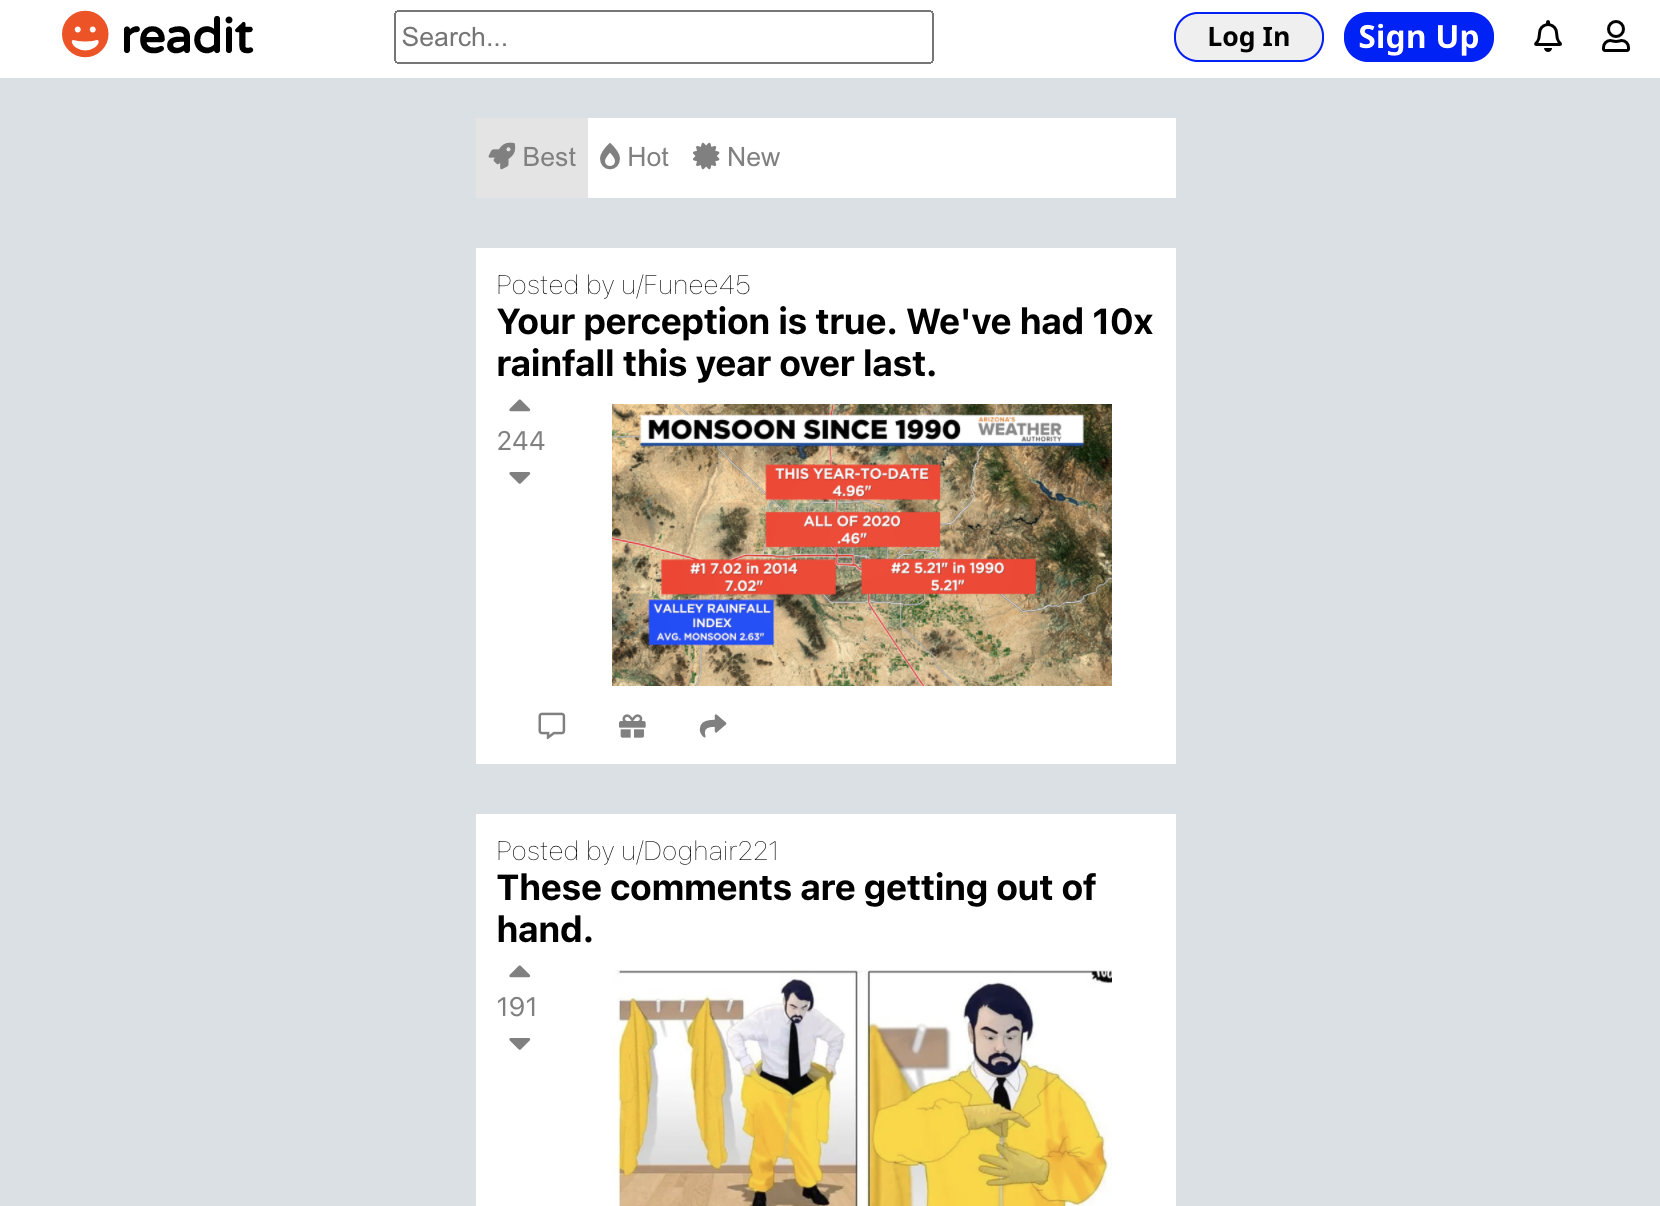
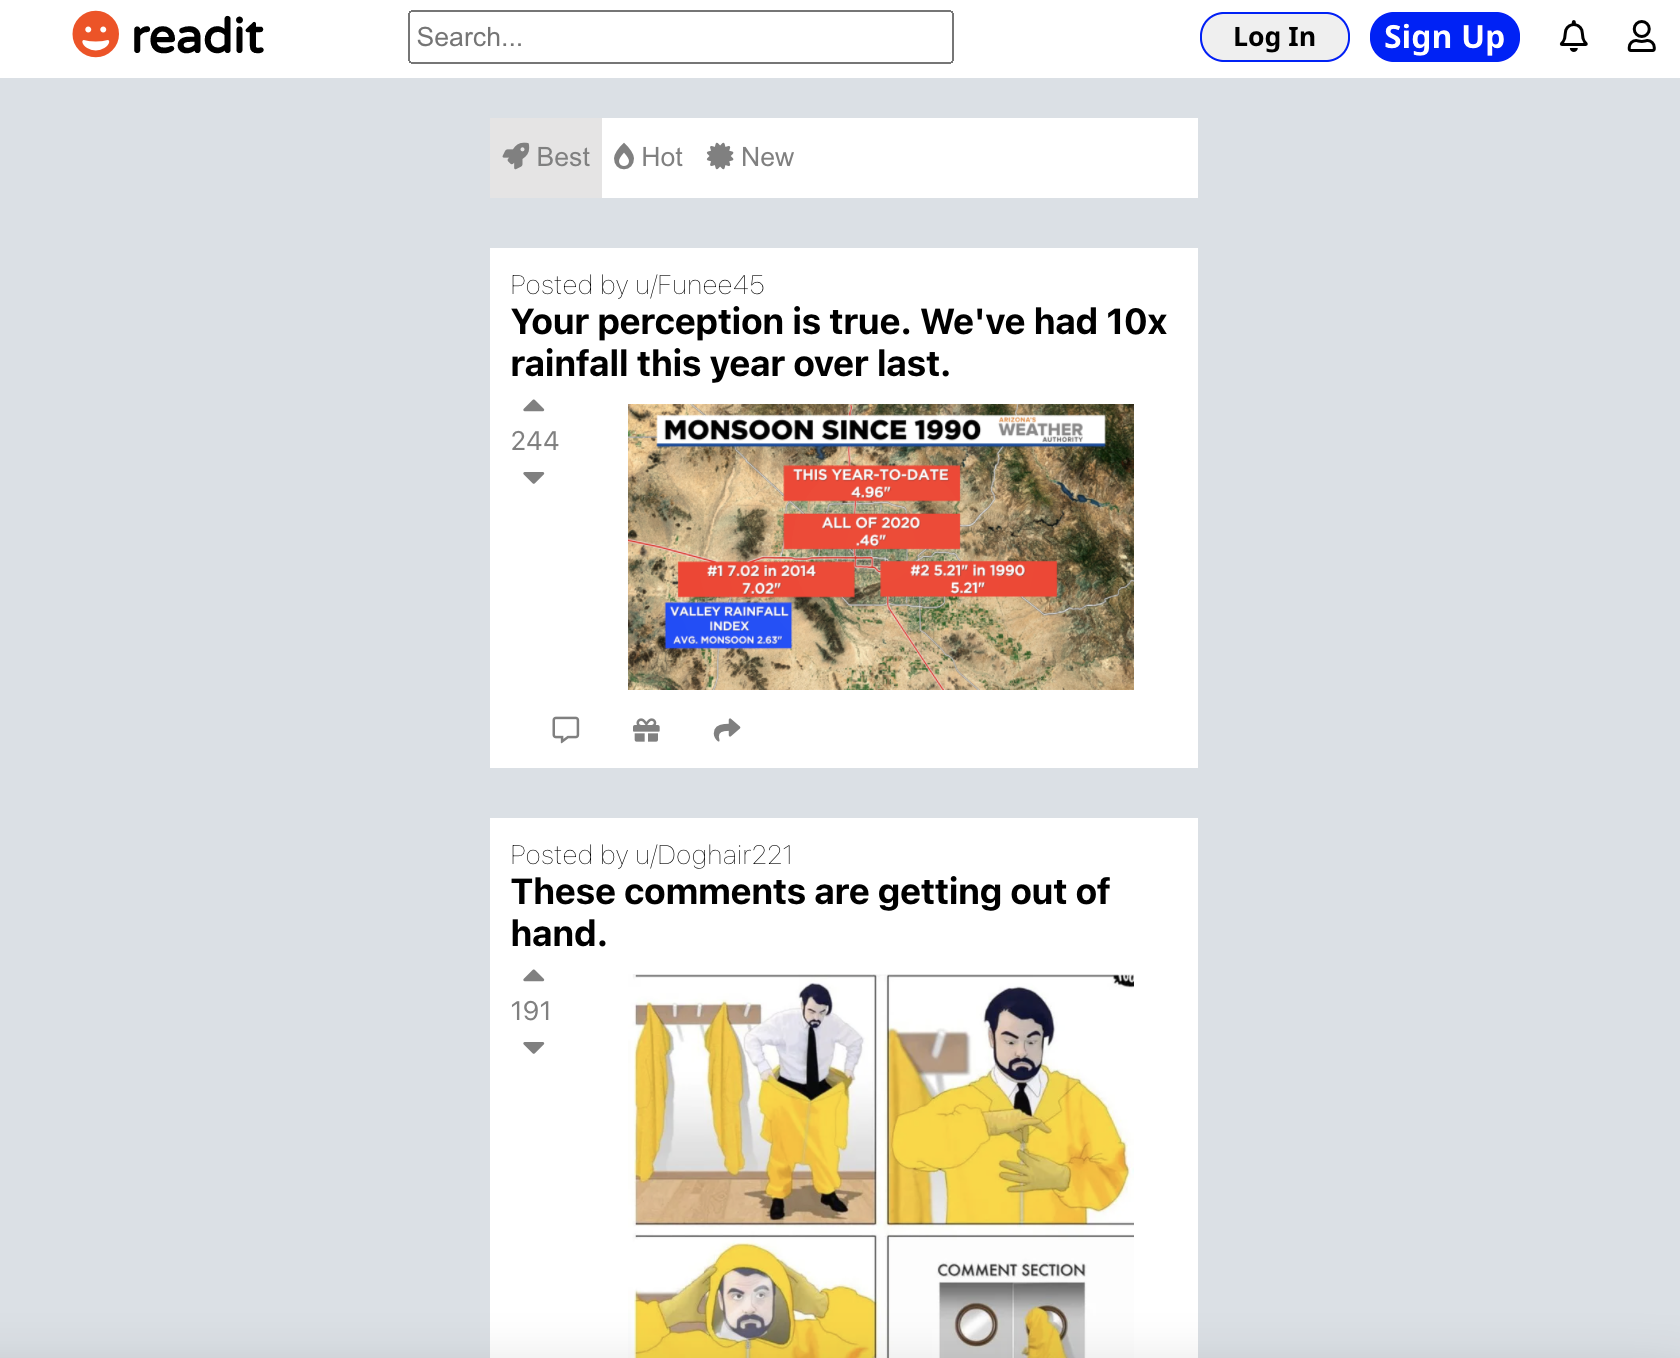
footer

Changed region(s): [[0.0, 0.0, 1.0, 1.0]]

diff --git a/public/index.html b/public/index.html
@@ -1,18 +1,30 @@
-<!doctype html>
+<!DOCTYPE html>
 <html lang="en">
   <head>
     <meta charset="utf-8" />
-    <script src="https://kit.fontawesome.com/96b8020baf.js" crossorigin="anonymous"></script>
-    <meta name="viewport" content="width=device-width, initial-scale=1.0/>
-    <meta name="theme-color" content="#000000" />
+    <script
+      src="https://kit.fontawesome.com/96b8020baf.js"
+      crossorigin="anonymous"
+    ></script>
+    <meta name="viewport" content="width=device-width, initial-scale=1.0"/>
+    <meta name="theme-color" content="#000000"/>
     <meta
       name="description"
       content="Web site created using create-react-app"
     />
-    <link href="https://fonts.googleapis.com/css2?family=Varela+Round&display=swap" rel="stylesheet">
-    <link href="https://fonts.googleapis.com/css2?family=Noto+Sans:wght@700&display=swap" rel="stylesheet">
+    <link
+      href="https://fonts.googleapis.com/css2?family=Varela+Round&display=swap"
+      rel="stylesheet"
+    />
+    <link
+      href="https://fonts.googleapis.com/css2?family=Noto+Sans:wght@700&display=swap"
+      rel="stylesheet"
+    />
     <link rel="apple-touch-icon" href="%PUBLIC_URL%/logo192.png" />
-    <link href="https://fonts.googleapis.com/css2?family=Noto+Sans+JP:wght@500&display=swap" rel="stylesheet">
+    <link
+      href="https://fonts.googleapis.com/css2?family=Noto+Sans+JP:wght@500&display=swap"
+      rel="stylesheet"
+    />
     <!--
       manifest.json provides metadata used when your web app is installed on a
       user's mobile device or desktop. See https://developers.google.com/web/fundamentals/web-app-manifest/
@@ -40,11 +52,9 @@
       To create a production bundle, use `npm run build` or `yarn build`.
     -->
     <!-- The core Firebase JS SDK is always required and must be listed first -->
-<script src="/__/firebase/8.10.0/firebase-app.js"></script>
+    <script src="/__/firebase/8.10.0/firebase-app.js"></script>
 
-
-
-<!-- Initialize Firebase -->
-<script src="/__/firebase/init.js?useEmulator=true"></script>
+    <!-- Initialize Firebase -->
+    <script src="/__/firebase/init.js?useEmulator=true"></script>
   </body>
 </html>

diff --git a/src/Main.js b/src/Main.js
@@ -37,13 +37,19 @@ function Main() {
                 <button className="more-buttons" id="readit-button">Click For More</button>
                 </div>
             </div>
-            <div className="content-class" id="content3">Weather App</div>
+            <div className="content-class" id="content3">
+            <div className="content-holder">
+                <div className="projct-title"></div>
+                <img src="weather-app.png" alt="weather app" className="project-photos" id="weather-img"></img>
+                <button className="more-buttons" id="weather-button">Click For More</button>
+                </div>
+            </div>
             <footer id="footer">
                 <div id="logos">
-                <div id="js-icon"><i class="fab fa-js-square"></i></div>
-                <div id="css-icon"><i class="fab fa-css3-alt"></i></div>
-                <div id="html-icon"><i class="fab fa-html5"></i></div>
-                <div id="react-icon"><i class="fab fa-react"></i></div>
+                <div className="logo" id="js-icon"><i class="fab fa-js-square"></i></div>
+                <div className="logo" id="css-icon"><i class="fab fa-css3-alt"></i></div>
+                <div className="logo" id="html-icon"><i class="fab fa-html5"></i></div>
+                <div className="logo" id="react-icon"><i class="fab fa-react"></i></div>
 
                 </div>
             </footer>

diff --git a/src/App.css b/src/App.css
@@ -137,15 +137,16 @@
   display: flex;
   align-content: center;
   justify-content: center;
-  width: 60%;
-  margin-left: 20%;
-  margin-right: 20%;
+  width: 70%;
+  margin-left: 15%;
+  margin-right: 15%;
   margin-top: 5%;
   margin-bottom: 10px;
 }
 
 .more-buttons {
   font-family: "Noto Sans JP", sans-serif;
+  color: white;
   font-size: 16px;
   display: flex;
   align-content: center;
@@ -159,4 +160,19 @@
   border: none;
   border-radius: 10px;
   background-color: rgba(241, 93, 48, 0.918);
+}
+
+/* Footer Section */ 
+
+
+#logos { 
+  display: flex;
+  flex-direction: row;
+  justify-content: center;
+  color: white;
+  font-size: 30px;
+}
+
+.logo { 
+  margin: 20px;
 }
